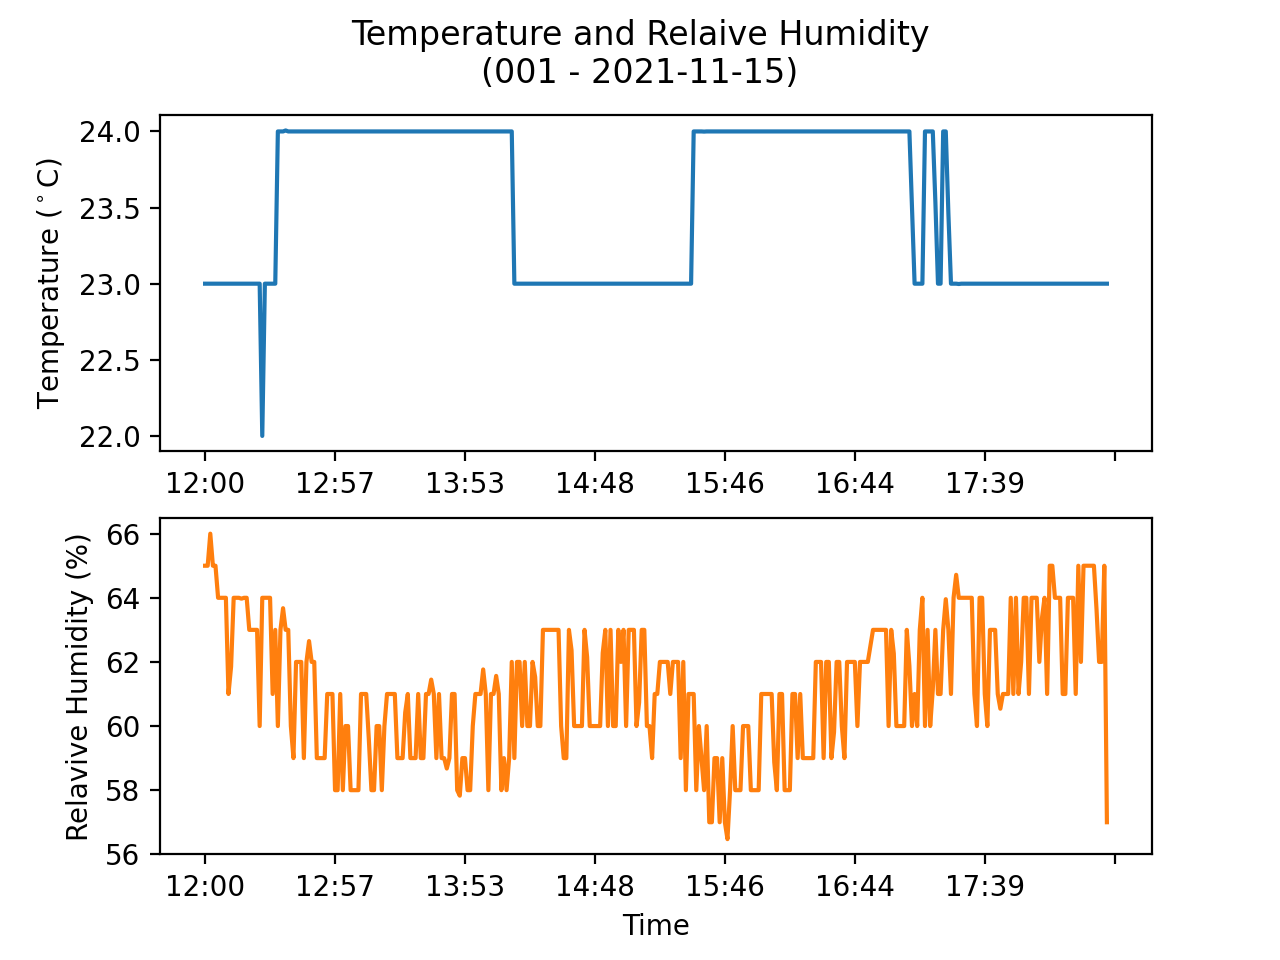
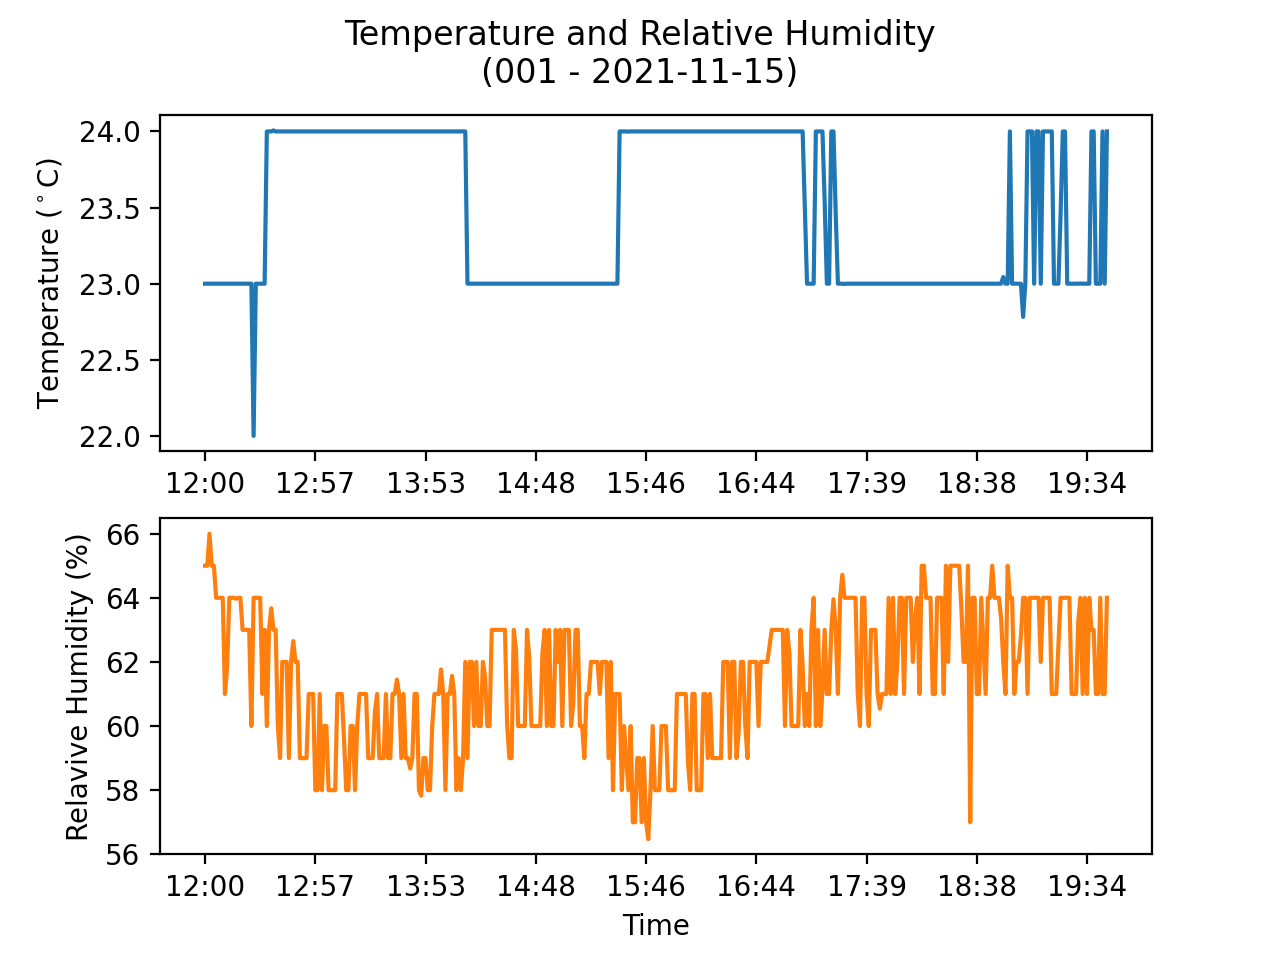
Data Logger - Part 3 - Visualization - Fixed plot title

diff --git a/_posts/2021-11-15-data-logger-part-3-visualization.md b/_posts/2021-11-15-data-logger-part-3-visualization.md
@@ -91,7 +91,7 @@ Plot the cleaned data using matplotlib.
 # Plot data
 figure, axes = plt.subplots(2)
 
-figure.suptitle(f'Temperature and Relaive Humidity\n({QUERY_SENSOR} - {QUERY_DATE})')
+figure.suptitle(f'Temperature and Relative Humidity\n({QUERY_SENSOR} - {QUERY_DATE})')
 
 df.plot(kind='line',x='time',y='Temperature', ax=axes[0], color='tab:blue', legend=None)
 df.plot(kind='line',x='time',y='Relative Humidity', ax=axes[1], color='tab:orange', legend=None)
